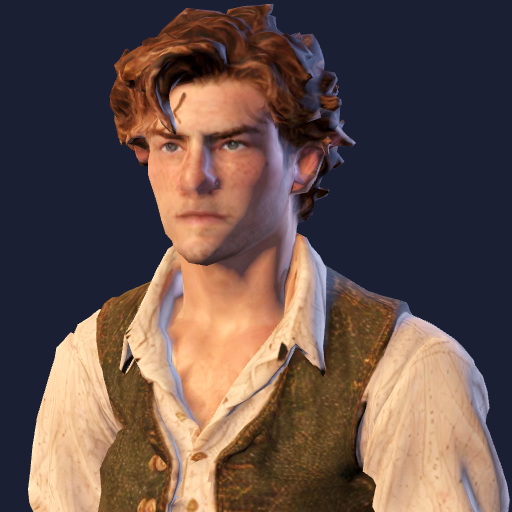
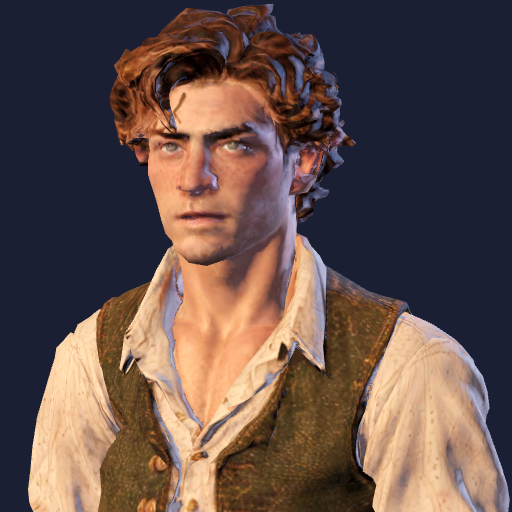
Player A wears his own normal map from Gary's file (New Player a.glb), through a shader that needs no tangents (the Compatibility renderer's skinning mangles them)
Claude-Session: https://claude.ai/code/session_01XKcK4AMz7swC9txi25aWVw

diff --git a/tools/add_normal_map.py b/tools/add_normal_map.py
@@ -1,0 +1,60 @@
+"""Gives a rigged character the normal map its maker's model came with.
+
+Gary's Tripo3D models come with a normal map (the fine shape painted into the
+light: Player A's nostrils, the bridge of his nose, his eyelids, the folds in
+his shirt), and rig_character.py leaves it out unless asked (AssetFurnace's
+split faces in two). This takes it from the maker's own file (embedded) or an
+image, and puts it beside the game's model as <stem>_normal.png, imported as a
+normal map; Figure3D.dress_normal_map then dresses the model in
+assets/shaders/character_nm.gdshader, which reads it without the mesh's
+tangents (on the phone link's renderer a rigged model's tangents come out of
+Godot's skinning mangled, and the normal map lit him in patches).
+
+    python3 tools/add_normal_map.py assets/models/characters/<id>.glb <maker's.glb | normal.png> [--size 2048]
+
+29 October (Gary: Player A's "face still look weird around the nose area",
+then "take the original of that model and put the old head on it"): Player
+A's, from his "New Player a.glb" of 25 October. tests/nm_check.gd compares the
+shader with StandardMaterial3D on the unskinned mesh.
+"""
+import argparse, io, json, os, struct, sys
+from PIL import Image
+
+sys.path.insert(0, os.path.dirname(os.path.abspath(__file__)))
+from rig_character import write_tex_import  # noqa: E402
+
+
+def normal_of(path):
+    if not path.lower().endswith(".glb"):
+        return Image.open(path).convert("RGB")
+    d = open(path, "rb").read()
+    ln = struct.unpack_from("<I", d, 12)[0]
+    j = json.loads(d[20:20 + ln])
+    off = 20 + ln
+    bl = struct.unpack_from("<I", d, off)[0]
+    b = d[off + 8:off + 8 + bl]
+    for m in j.get("materials", []):
+        if "normalTexture" in m:
+            im = j["images"][j["textures"][m["normalTexture"]["index"]]["source"]]
+            v = j["bufferViews"][im["bufferView"]]
+            return Image.open(io.BytesIO(b[v.get("byteOffset", 0):v.get("byteOffset", 0) + v["byteLength"]])).convert("RGB")
+    sys.exit("%s has no normal map" % path)
+
+
+def main():
+    ap = argparse.ArgumentParser()
+    ap.add_argument("model")
+    ap.add_argument("source")
+    ap.add_argument("--size", type=int, default=2048)
+    a = ap.parse_args()
+    img = normal_of(a.source)
+    if img.width > a.size:
+        img = img.resize((a.size, a.size), Image.LANCZOS)
+    out = a.model[:-4] + "_normal.png"
+    img.save(out)
+    write_tex_import(out, True)
+    print("%s: %dx%d" % (out, img.width, img.height))
+
+
+if __name__ == "__main__":
+    main()

diff --git a/README.md b/README.md
@@ -1048,19 +1048,29 @@ v7 wins; the parts it changed:
   at its rim, blending to the other shoulder blade's, mirrored, at its
   middle. `tests/back_peek.tscn -- <out.png> <id> [clips]` takes a character
   from behind, three-quarters and above in clips.
-- **Player A's nose** ("face still look weird around the nose area"): the
-  model's mesh is Gary's as he made it (the same points since 26 October;
-  the face is 99% on the Head bone, so no clip bends it), but its colours
-  are his 4K texture cut to 2048, and his model's normal map (the fine shape
-  painted into the light: the nostrils, the bridge) was left out when he was
-  rigged (`rig_character.py` drops normal maps unless `--normal-map`: the
-  AssetFurnace ones split faces in two). The atlas also has a smeared orange
-  strip down the right side of the nose. `tools/heal_face.py` (painting over
-  the strip from the front) was tried on 29 October and taken back the same
-  afternoon (Gary: put the head back as it was before it was edited): the
-  atlas is the 26 October one again (`9ee55f7`). The fix is his original
-  file (`New_Player_A_Master_22_Animations.glb`): its full texture and its
-  normal map on the head.
+- **Player A's nose** ("face still look weird around the nose area"; then,
+  29 October 17:06, "take the original of that model and put the old head
+  on it"): his mesh, UVs and colours were Gary's own all along (the same
+  points as his "New Player a.glb", 25 October; the atlas is his colour map
+  at 2048); what was missing was its **normal map**, the fine shape painted
+  into the light (the bridge and nostrils, the eyelids, the folds in his
+  shirt), which `rig_character.py` leaves out. Put back on the rigged model
+  with StandardMaterial3D it lit him in patches: on the Compatibility
+  renderer (the phone link) Godot 4.7's skinning pass decodes a rigged
+  mesh's tangents the other way from how it encoded them, so each island of
+  the atlas was lit from a different side (the unskinned mesh was fine; the
+  same tangents written into the file came out the same). So a model with
+  `<model>_normal.png` beside it wears `assets/shaders/character_nm.gdshader`
+  (`Figure3D.dress_normal_map`, also in the portraits): his own colour and
+  metal-roughness, and the normal map read through a frame worked out per
+  pixel from the screen derivatives of the surface and its UVs (signed by
+  the UVs' winding, so the same on GL and on Vulkan/Metal), needing no
+  tangents. `tests/nm_check.gd` measures it against StandardMaterial3D on the
+  unskinned mesh (a mean difference of 5 in 255, the rigged model the same).
+  `tools/add_normal_map.py MODEL.glb <maker's.glb|normal.png>` puts a normal
+  map beside a model; `player_a_normal.png` is his, at its own 2048. His
+  portrait is re-rendered. (`tools/heal_face.py`, painting over the nose
+  from the front, was tried that morning and taken back the same afternoon.)
 - **Nell's stick** ("goes through the bench before you sit with her"): sat,
   her stick stands on the ground by her right knee, clear of the seat
   (`Figure3D.plant_stick(foot)`: the hand turned so the stick hangs straight

diff --git a/docs/handover/2026-10-29-pm.md b/docs/handover/2026-10-29-pm.md
@@ -48,6 +48,17 @@ game had it before today. His original file wasn't in the repo and his Mac
 wasn't reachable; with it (`New_Player_A_Master_22_Animations.glb`), the head
 can have its full 4K texture and its normal map, which the rigging left out.
 
+## Later (17:06): his own normal map
+
+Gary on the desktop app: his "New Player a.glb" (Downloads, 25 October) is
+the game's model exactly (mesh, UVs, colours) but with a normal map, which
+the rigging dropped. It's back (`player_a_normal.png`), worn through
+`character_nm.gdshader` because the Compatibility renderer's skinning mangles
+a rigged mesh's tangents (README, Player A's nose). Stills: `face_close`
+(rest and talking, against his file), `mirror_shot`, the portrait, all
+looked at. Not seen on Forward+ (no Vulkan here): the shader's frame is
+signed so it shouldn't matter which way the screen's axes run.
+
 ## Notes for whoever is next
 
 - `Figure3D`'s last modifier (`HandsOff`) does, in order: the pressed palms,
